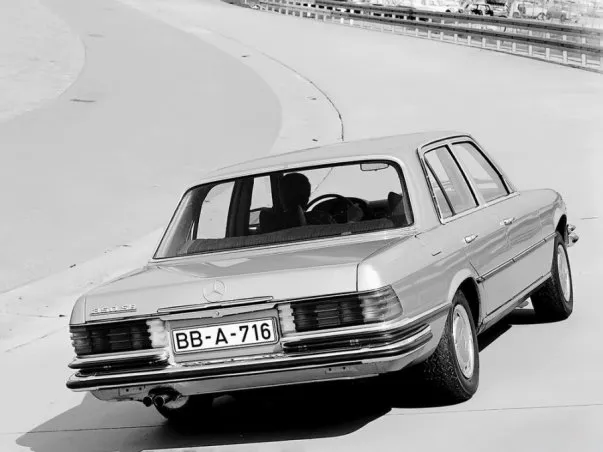
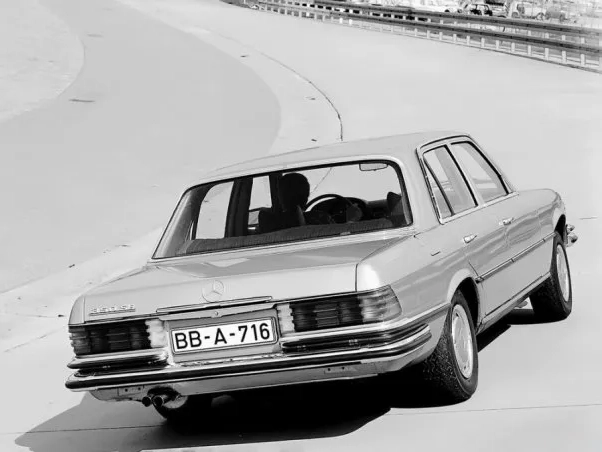
246

diff --git a/pic/ja_mb_img_s.html b/pic/ja_mb_img_s.html
@@ -490,7 +490,7 @@
 					</div>
 					<section>
 						<h4 class="displayNone">w116</h4>
-						<a href="full/s/w116_r.jpg"><img loading="lazy" src="style/s/w116_r.webp" alt="メルセデス,W116,Sクラス,リヤ" width="603" height="452"></a>
+						<a href="full/s/w116_r.jpg"><img loading="lazy" src="style/s/w116_r.webp" alt="メルセデス,W116,Sクラス,リヤ" width="602" height="452"></a>
 						<a href="full/s/w116_d.jpg"><img loading="lazy" src="style/s/w116_d.webp" alt="メルセデス,W116,Sクラス,ダッシュボード" width="603" height="452"></a><br>
 						<a href="full/s/w116_tp.jpg"><img loading="lazy" src="style/s/w116_tp.webp" alt="メルセデス,W116,Sクラス,透視図" width="760" height="253"></a>
 						<h5>Dimensions</h5>

diff --git a/pic/en_mb_img_s.html b/pic/en_mb_img_s.html
@@ -490,7 +490,7 @@
 					</div>
 					<section>
 						<h4 class="displayNone">w116</h4>
-						<a href="full/s/w116_r.jpg"><img loading="lazy" src="style/s/w116_r.webp" alt="Mercedes,W116,S-class,primary,Rear view" width="603" height="452"></a>
+						<a href="full/s/w116_r.jpg"><img loading="lazy" src="style/s/w116_r.webp" alt="Mercedes,W116,S-class,primary,Rear view" width="602" height="452"></a>
 						<a href="full/s/w116_d.jpg"><img loading="lazy" src="style/s/w116_d.webp" alt="Mercedes,W116,S-class,primary,Dashboard" width="603" height="452"></a><br>
 						<a href="full/s/w116_tp.jpg"><img loading="lazy" src="style/s/w116_tp.webp" alt="Mercedes,W116,S-class,primary,transparent" width="760" height="253"></a>
 						<h5>Dimensions</h5>

diff --git a/pic/mb_img_s.html b/pic/mb_img_s.html
@@ -490,7 +490,7 @@
 					</div>
 					<section>
 						<h4 class="displayNone">w116</h4>
-						<a href="full/s/w116_r.jpg"><img loading="lazy" src="style/s/w116_r.webp" alt="Mercedes,W116,S-klasse,Rückansicht" width="603" height="452"></a>
+						<a href="full/s/w116_r.jpg"><img loading="lazy" src="style/s/w116_r.webp" alt="Mercedes,W116,S-klasse,Rückansicht" width="602" height="452"></a>
 						<a href="full/s/w116_d.jpg"><img loading="lazy" src="style/s/w116_d.webp" alt="Mercedes,W116,S-klasse,Instrumententafel" width="603" height="452"></a><br>
 						<a href="full/s/w116_tp.jpg"><img loading="lazy" src="style/s/w116_tp.webp" alt="Mercedes,W116,S-klasse,transparent" width="760" height="253"></a>
 						<h5>Abmessungen</h5>
